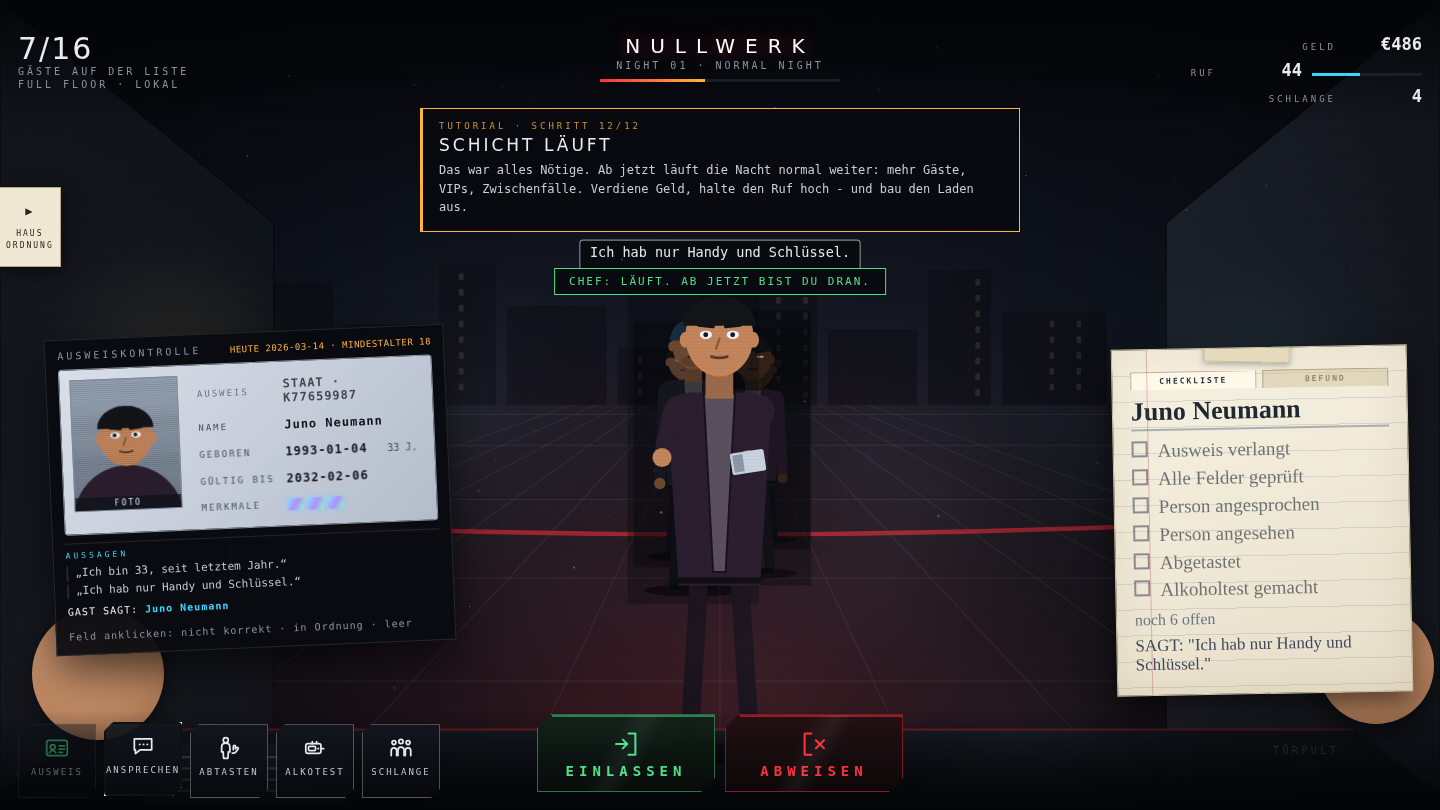
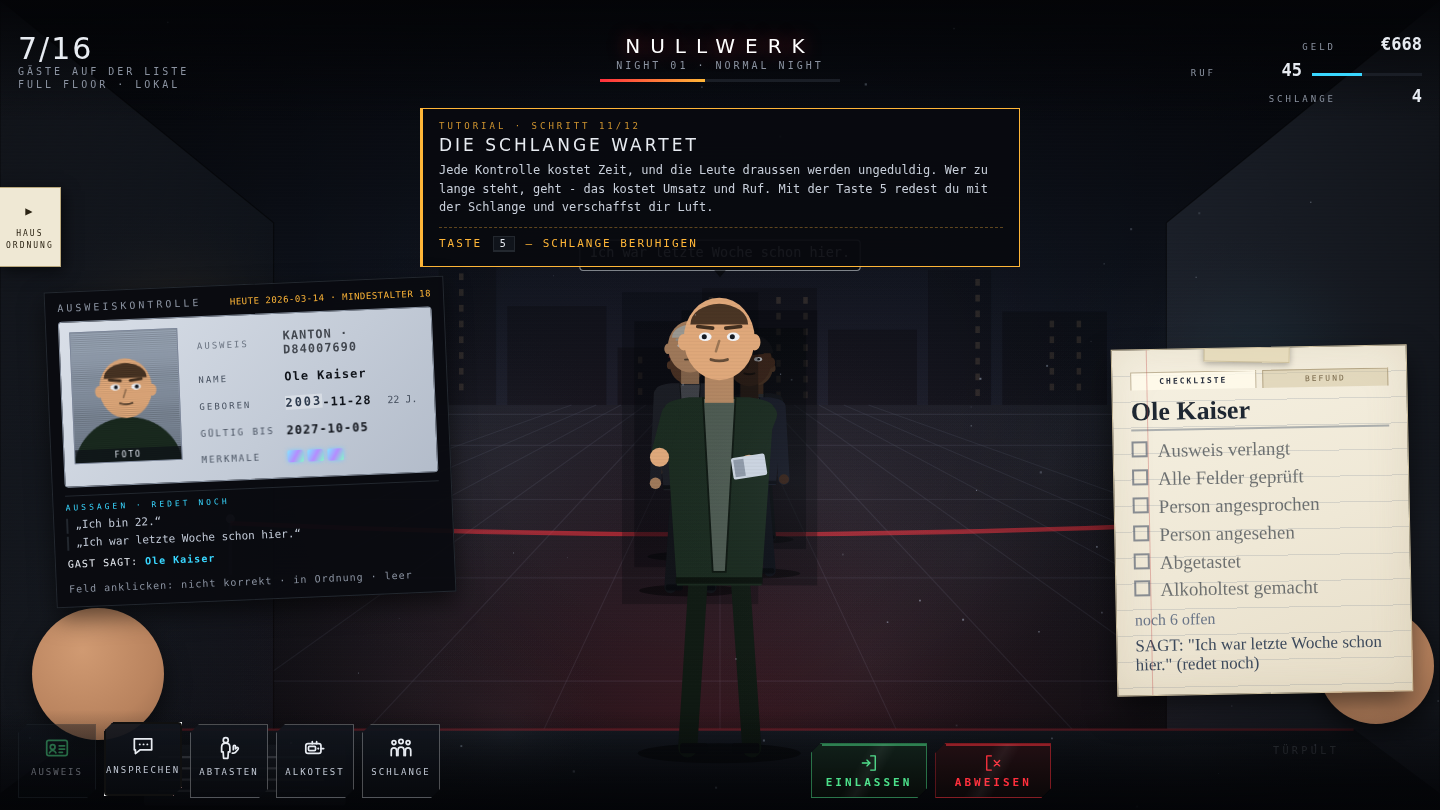
Ausweis hoeher haengen, Entscheidungs-Buttons verkleinern
Der Ausweis lag knapp ueber der Aktionsleiste, sein Schatten fiel auf die
Knoepfe. Er sitzt jetzt 210px ueber dem unteren Rand, die Hand bleibt am
Tresen liegen und der Schatten ist flacher.

EINLASSEN / ABWEISEN sind deutlich kompakter und liegen nicht mehr frei
ueber dem Bild, sondern als eigene Spalte in der unteren Leiste: links die
Aktionen, mittig die Entscheidung, rechts der zweite Spieler. In schmalen
Fenstern schrumpfen Aktions- und Entscheidungsknoepfe zusaetzlich, damit
sich im Koop nichts mehr ueberlappt.

Godot-Port nachgezogen und die Dokubilder neu aufgenommen.

Claude-Session: https://claude.ai/code/session_014tauyS4c1NeDbnvdVwTJ9i

diff --git a/styles/ui.css b/styles/ui.css
@@ -218,7 +218,9 @@ html, body {
 /* ---------- Ausweis ---------- */
 
 .idhand {
-  position: absolute; left: 6px; bottom: 104px;
+  /* Hoch genug, dass der Ausweis nie auf der Aktionsleiste liegt:
+     die Leiste ist rund 100px hoch, darueber bleibt ein klarer Abstand. */
+  position: absolute; left: 6px; bottom: 152px;
   width: 470px; height: 300px;
   pointer-events: none;
 }
@@ -230,7 +232,8 @@ html, body {
   box-shadow: 0 10px 24px rgba(0, 0, 0, 0.55);
   pointer-events: none;
 }
-.idhand .holding-hand { left: 26px; bottom: -34px; width: 132px; height: 132px; }
+/* Die Hand bleibt am Tresen liegen, auch wenn der Ausweis hoeher haengt. */
+.idhand .holding-hand { left: 26px; bottom: -82px; width: 132px; height: 132px; }
 .notepad-hand { right: 6px; bottom: 86px; width: 116px; height: 116px; }
 
 .idcard {
@@ -242,7 +245,8 @@ html, body {
   border: 1px solid var(--line);
   padding: 10px 12px 12px;
   pointer-events: auto;
-  box-shadow: 0 18px 40px rgba(0, 0, 0, 0.6);
+  /* Flacher Schatten: der alte lief bis auf die Knoepfe hinunter. */
+  box-shadow: 0 10px 24px rgba(0, 0, 0, 0.55);
 }
 
 .idc-head { display: flex; justify-content: space-between; align-items: baseline; gap: 10px; margin-bottom: 8px; white-space: nowrap; }
@@ -323,18 +327,20 @@ html, body {
 
 .hud-bottom {
   position: absolute; bottom: 0; left: 0; right: 0;
-  display: grid; grid-template-columns: 1fr 1fr;
-  align-items: end; gap: 14px; padding: 14px 18px 12px;
+  /* Links die Aktionen, mittig die Entscheidung, rechts der zweite
+     Spieler - so kann nichts uebereinander liegen. */
+  display: flex; align-items: flex-end; gap: 14px; padding: 14px 18px 12px;
   background: linear-gradient(0deg, rgba(4, 5, 8, 0.95), rgba(4, 5, 8, 0));
 }
 
 /* ---------- Entscheidungs-Buttons: gross, mittig, unten ---------- */
 
 .decisions {
-  position: absolute; bottom: 18px; left: 50%; transform: translateX(-50%);
-  display: flex; gap: 30px; align-items: flex-end; pointer-events: auto; z-index: 5;
+  display: flex; gap: 14px; align-items: flex-end; justify-content: center;
+  flex: 0 0 auto; pointer-events: auto; z-index: 5;
 }
-.dec-group { display: flex; gap: 10px; align-items: flex-end; position: relative; }
+.decisions:empty { display: none; }
+.dec-group { display: flex; gap: 8px; align-items: flex-end; position: relative; }
 .dec-role {
   position: absolute; top: -16px; left: 50%; transform: translateX(-50%);
   font-size: 8px; letter-spacing: 3px; color: var(--dim); white-space: nowrap;
@@ -525,10 +531,13 @@ html, body {
 .actionbar {
   /* Eine Reihe, keine zweite Zeile: sonst schiebt sie sich über den Ausweis. */
   display: flex; gap: 8px; align-items: flex-end; flex-wrap: nowrap;
+  flex: 1 0 auto;
   pointer-events: auto;
 }
-.actionbar.p2 { justify-content: flex-end; margin-left: auto; }
-.actionbar:empty { display: none; }
+.actionbar.p2 { justify-content: flex-end; }
+/* Leer bleibt sie als Platzhalter stehen, damit die Entscheidung
+   mittig sitzt - klickbar ist dann nichts davon. */
+.actionbar:empty { pointer-events: none; }
 
 /* Kontrollen: Icon-Buttons, anklickbar wie mit der Taste. */
 .act {
@@ -1689,18 +1698,20 @@ kbd {
 /* ---------- Entscheidung: EINLASSEN / ABWEISEN ---------- */
 
 .dec {
-  min-width: 178px;
-  padding: 14px 24px 12px;
-  gap: 4px;
+  /* Kompakt: die beiden Knoepfe duerfen die Aktionsleiste daneben
+     nicht ueberlappen, auch nicht in schmalen Fenstern. */
+  min-width: 116px;
+  padding: 9px 14px 8px;
+  gap: 3px;
   border-width: 1px;
-  clip-path: polygon(14px 0, 100% 0, 100% calc(100% - 14px), calc(100% - 14px) 100%, 0 100%, 0 14px);
+  clip-path: polygon(10px 0, 100% 0, 100% calc(100% - 10px), calc(100% - 10px) 100%, 0 100%, 0 10px);
   backdrop-filter: blur(4px);
 }
-.dec .dec-icon { width: 30px; height: 30px; }
-.dec .dec-label { font-size: 14px; letter-spacing: 5px; color: currentColor; }
+.dec .dec-icon { width: 20px; height: 20px; }
+.dec .dec-label { font-size: 11px; letter-spacing: 3px; color: currentColor; }
 /* Ein dünner Lichtrand in der Farbe der Entscheidung. */
 .dec::before {
-  content: ""; position: absolute; left: 14px; right: 0; top: 0; height: 2px;
+  content: ""; position: absolute; left: 10px; right: 0; top: 0; height: 2px;
   background: currentColor; opacity: 0.5;
 }
 .dec.yes {
@@ -1789,4 +1800,16 @@ kbd {
 @media (prefers-reduced-motion: reduce) {
   .menu, .menu::before, .menu-scan::after, .menu-title::before, .menu-title::after,
   .ms-dot, .btn::after, .menu-item::after { animation: none !important; transition: none !important; }
+}
+
+/* Schmale Fenster: die untere Leiste muss in eine Zeile passen,
+   sonst schieben sich Aktionen und Entscheidung uebereinander. */
+@media (max-width: 1120px) {
+  .act { width: 66px; min-height: 66px; padding: 8px 4px 6px; }
+  .act .act-icon { width: 22px; height: 22px; }
+  .act .act-name { font-size: 8px; letter-spacing: 1px; }
+  .dec { min-width: 96px; padding: 8px 10px 7px; }
+  .dec .dec-icon { width: 18px; height: 18px; }
+  .dec .dec-label { font-size: 10px; letter-spacing: 2px; }
+  .decisions { gap: 10px; }
 }

diff --git a/index.html b/index.html
@@ -66,11 +66,10 @@
     <div id="toasts"></div>
     <div id="netstatus" class="netstatus hidden"></div>
 
-    <!-- Entscheidung: gross, mittig, unten -->
-    <div id="decisions" class="decisions"></div>
-
     <footer class="hud-bottom">
       <div class="actionbar" id="bar-p1"></div>
+      <!-- Entscheidung: mittig in der Leiste, nie ueber den Aktionen -->
+      <div id="decisions" class="decisions"></div>
       <div class="actionbar p2" id="bar-p2"></div>
     </footer>
   </div>
